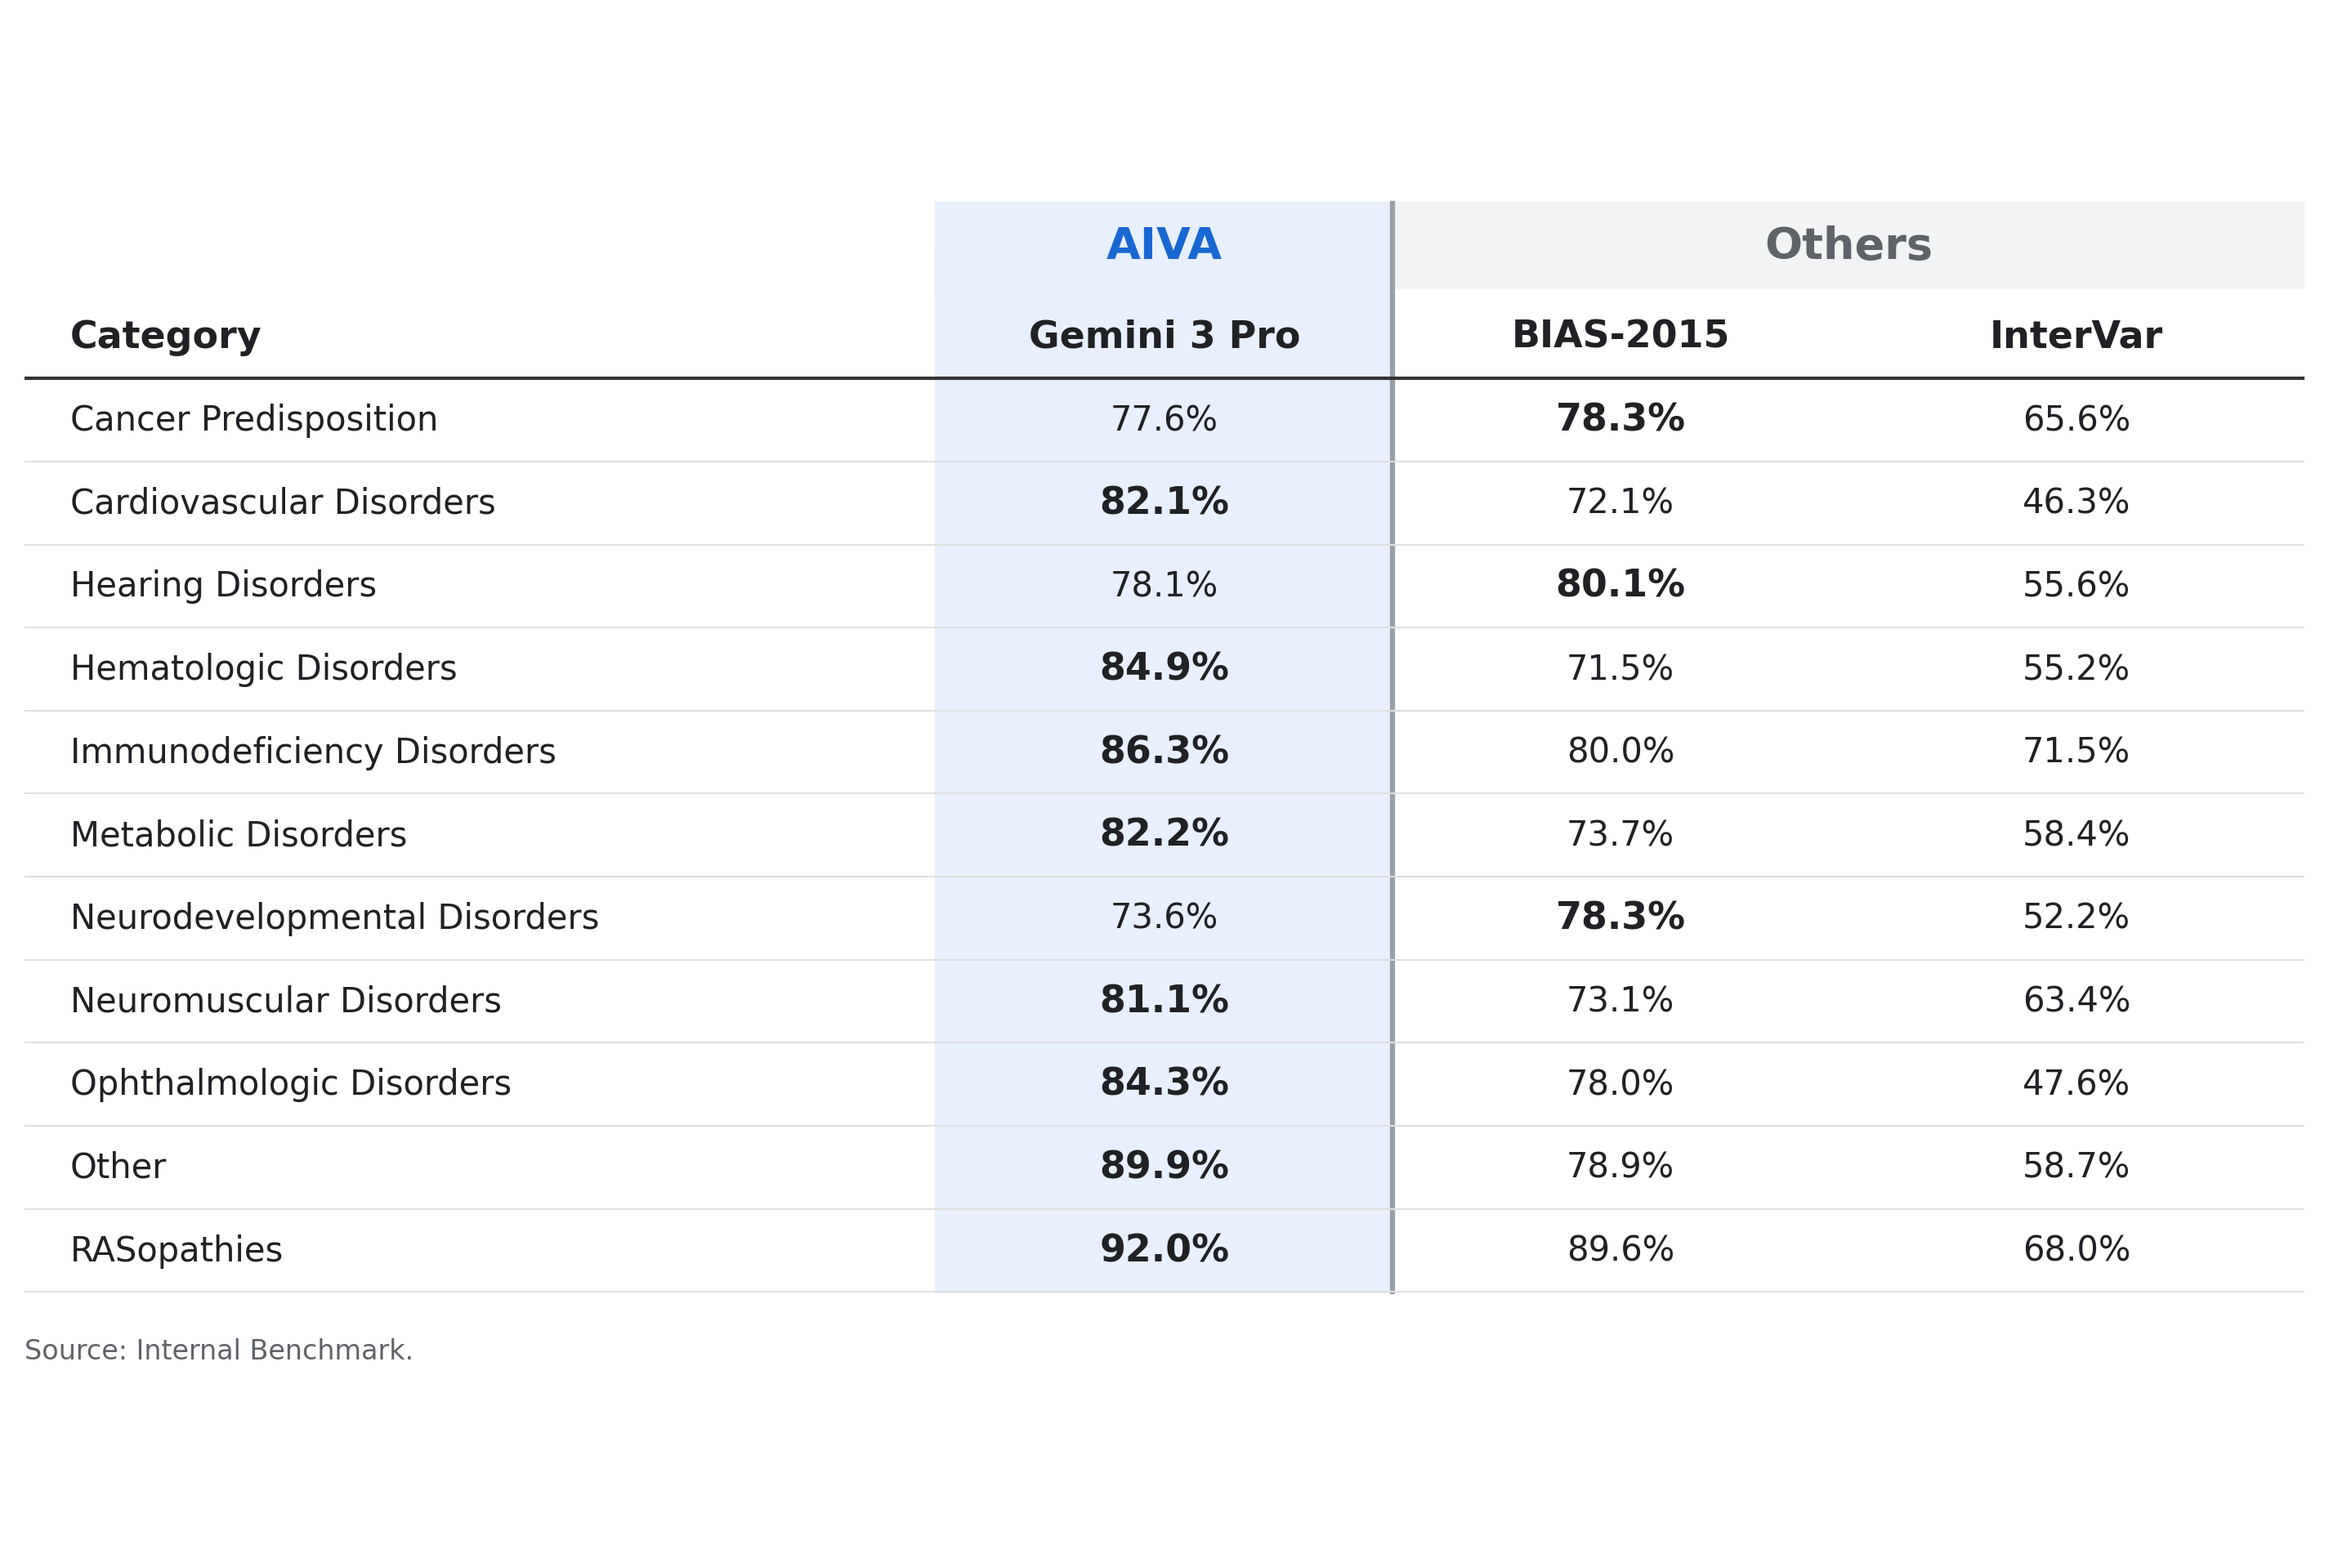
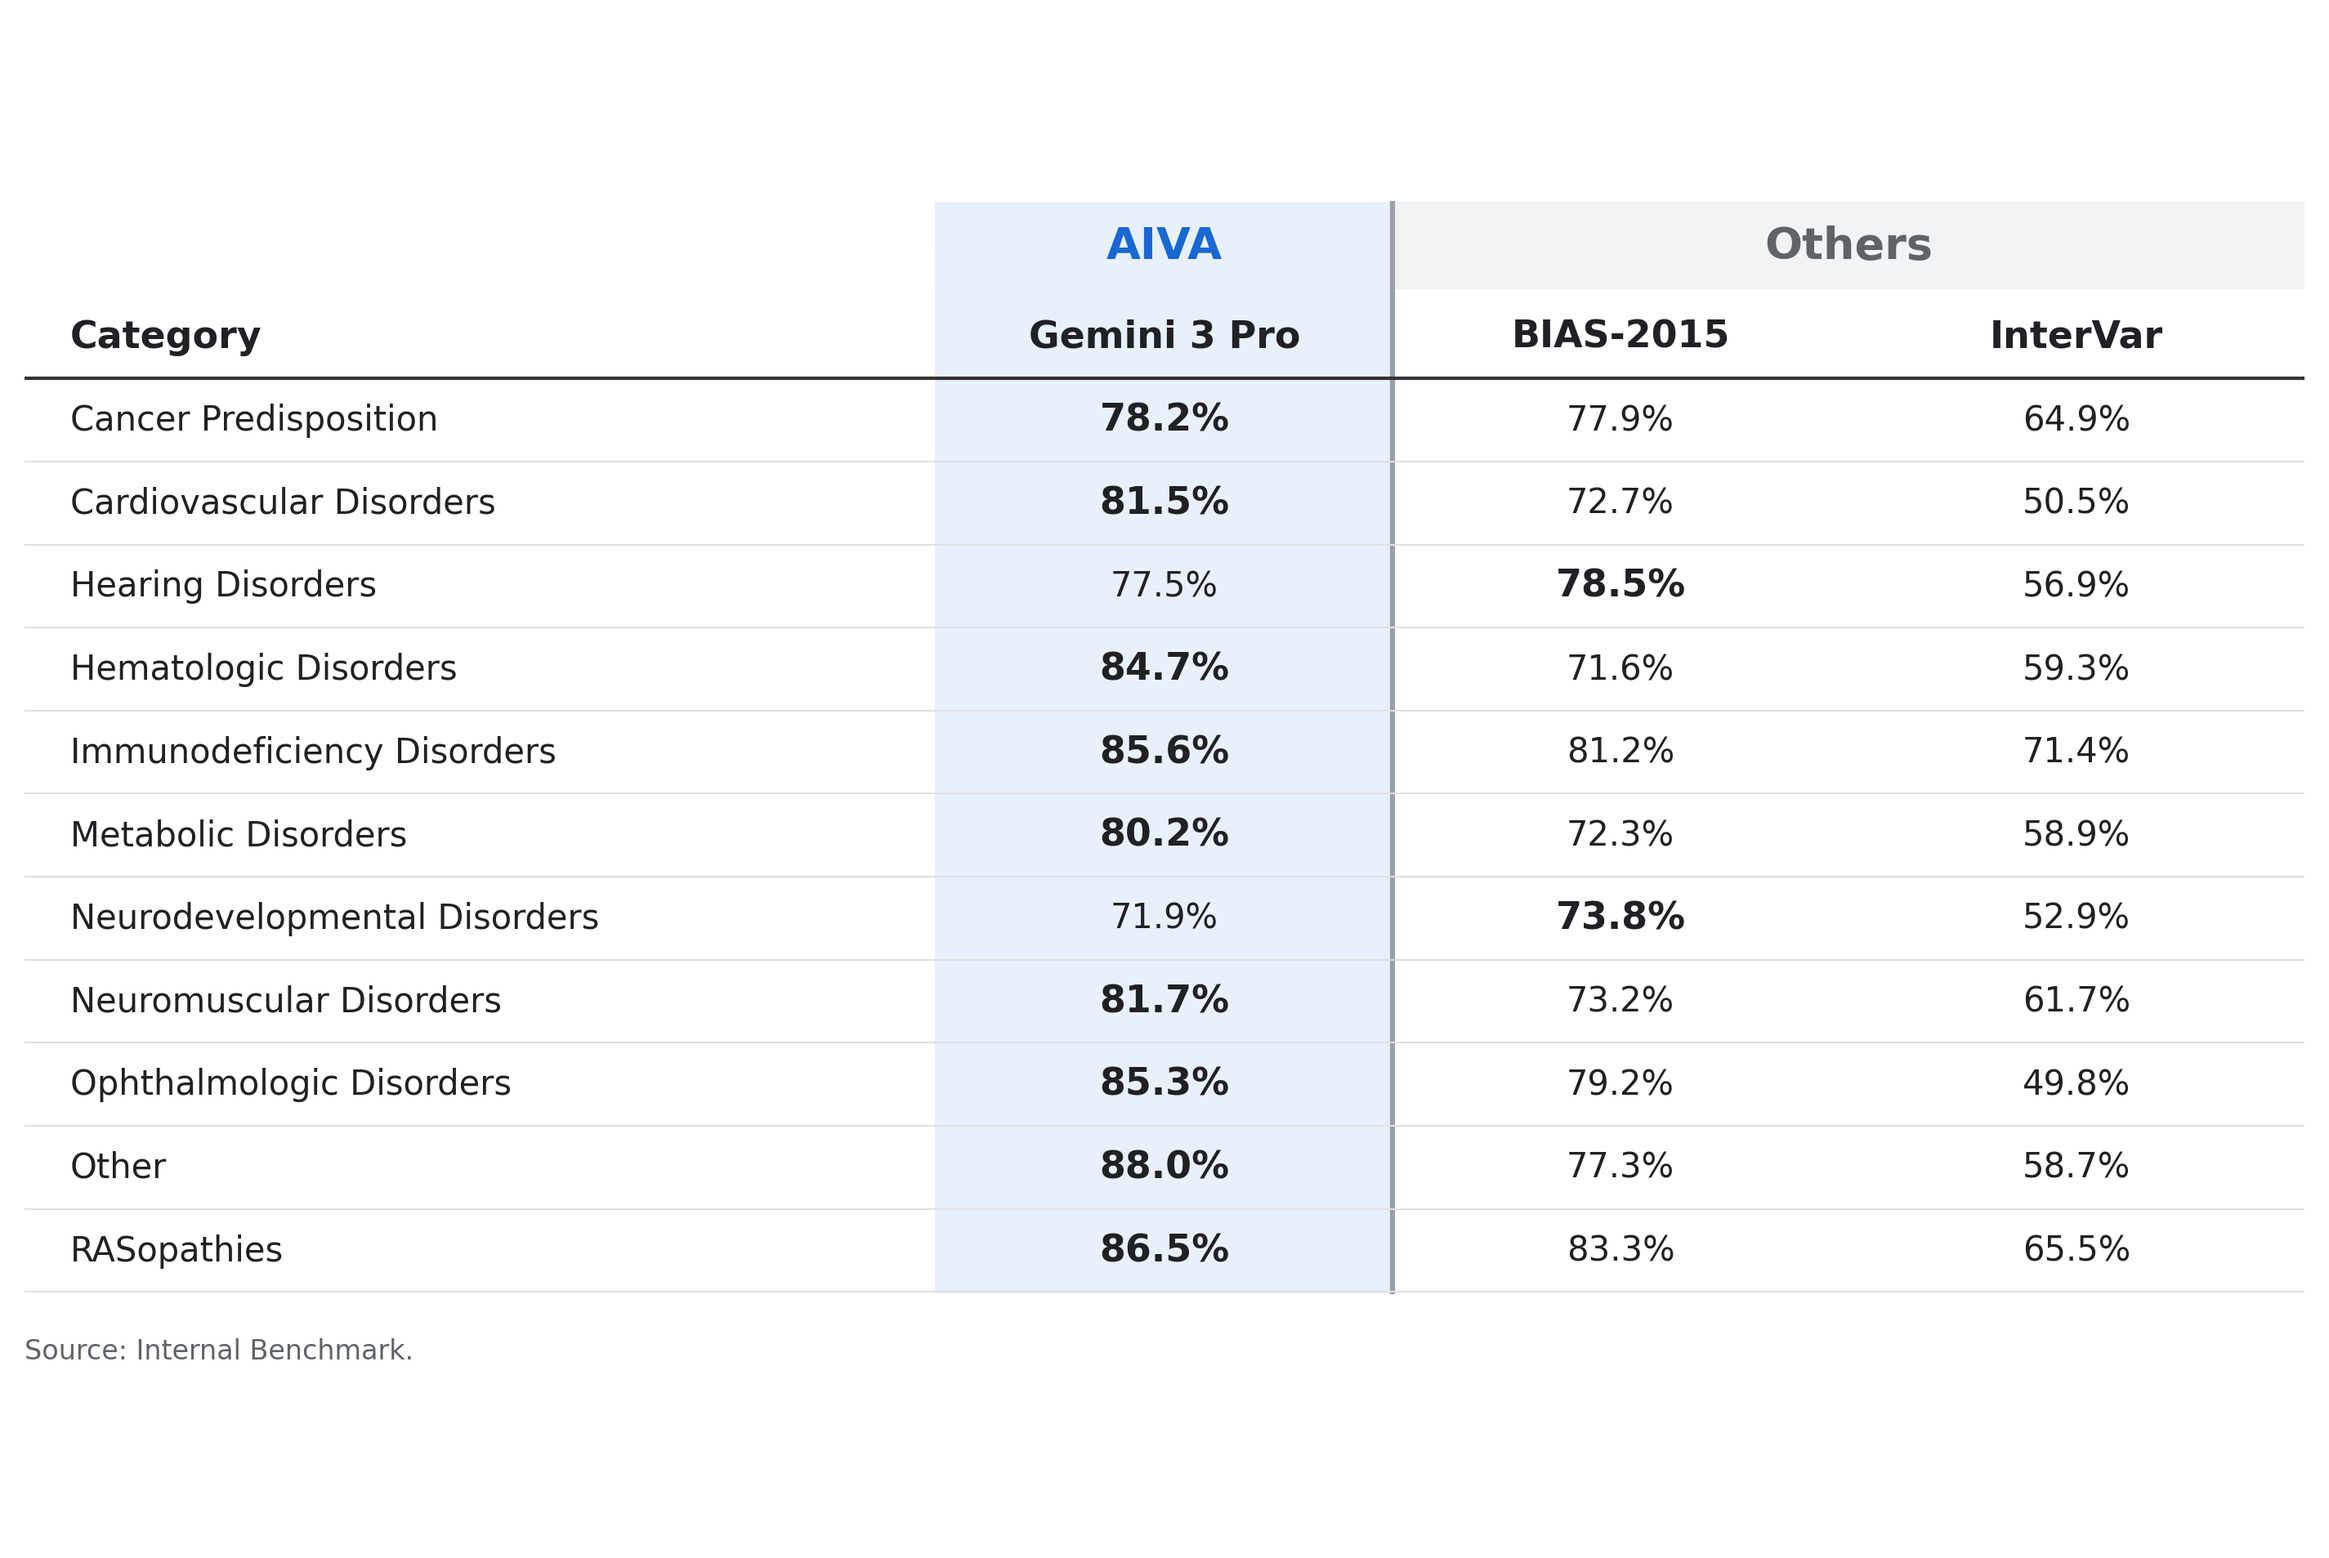
fix: regenerate figures with corrected metrics using erepo_bias_intervar_merged.jsonl
- Use correct baseline dataset (erepo_bias_intervar_merged.jsonl) with all 8,387 variants
- Fix category_summary to display Macro F1 scores instead of directional accuracy
- Recalculate metrics_by_category.tsv with proper baseline comparisons
- Regenerate figure_combined_summary.png and figure_category_summary.png

This ensures all three tools (AIVA, BIAS-2015, InterVar) are evaluated on the same dataset and both figures show consistent Macro F1 scores.

diff --git a/scripts/generate_results.py b/scripts/generate_results.py
@@ -726,7 +726,7 @@ def main():
         print("Generating scorecards...")
         df = pd.read_csv(args.metrics_tsv, sep='\t')
         
-        # Summary
+        # Summary - Calculate Macro F1 from plp_f1, vus_f1, blb_f1
         cats = df['category'].unique()
         data = {"Category": cats}
         model_map = {'gemini-3-pro-preview': 'Gemini 3 Pro', 'BIAS-2015': 'BIAS-2015', 'InterVar': 'InterVar'}
@@ -735,8 +735,13 @@ def main():
             scores = []
             for c in cats:
                 row = df[(df['category']==c) & (df['model'].str.contains(m_key) if 'gemini' in m_key else df['model']==m_key)]
-                if not row.empty: scores.append(row.get('dir_macro_f1', row.get('directional_accuracy')).values[0]) # simplified fallback
-                else: scores.append(0)
+                if not row.empty:
+                    # Calculate Macro F1 as average of P/LP, VUS, B/LB F1 scores
+                    r = row.iloc[0]
+                    macro_f1 = (r['plp_f1'] + r['vus_f1'] + r['blb_f1']) / 3
+                    scores.append(macro_f1 * 100)  # Convert to percentage
+                else:
+                    scores.append(0)
             data[m_disp] = scores
         
         generate_category_summary_table(pd.DataFrame(data), out_dir)
